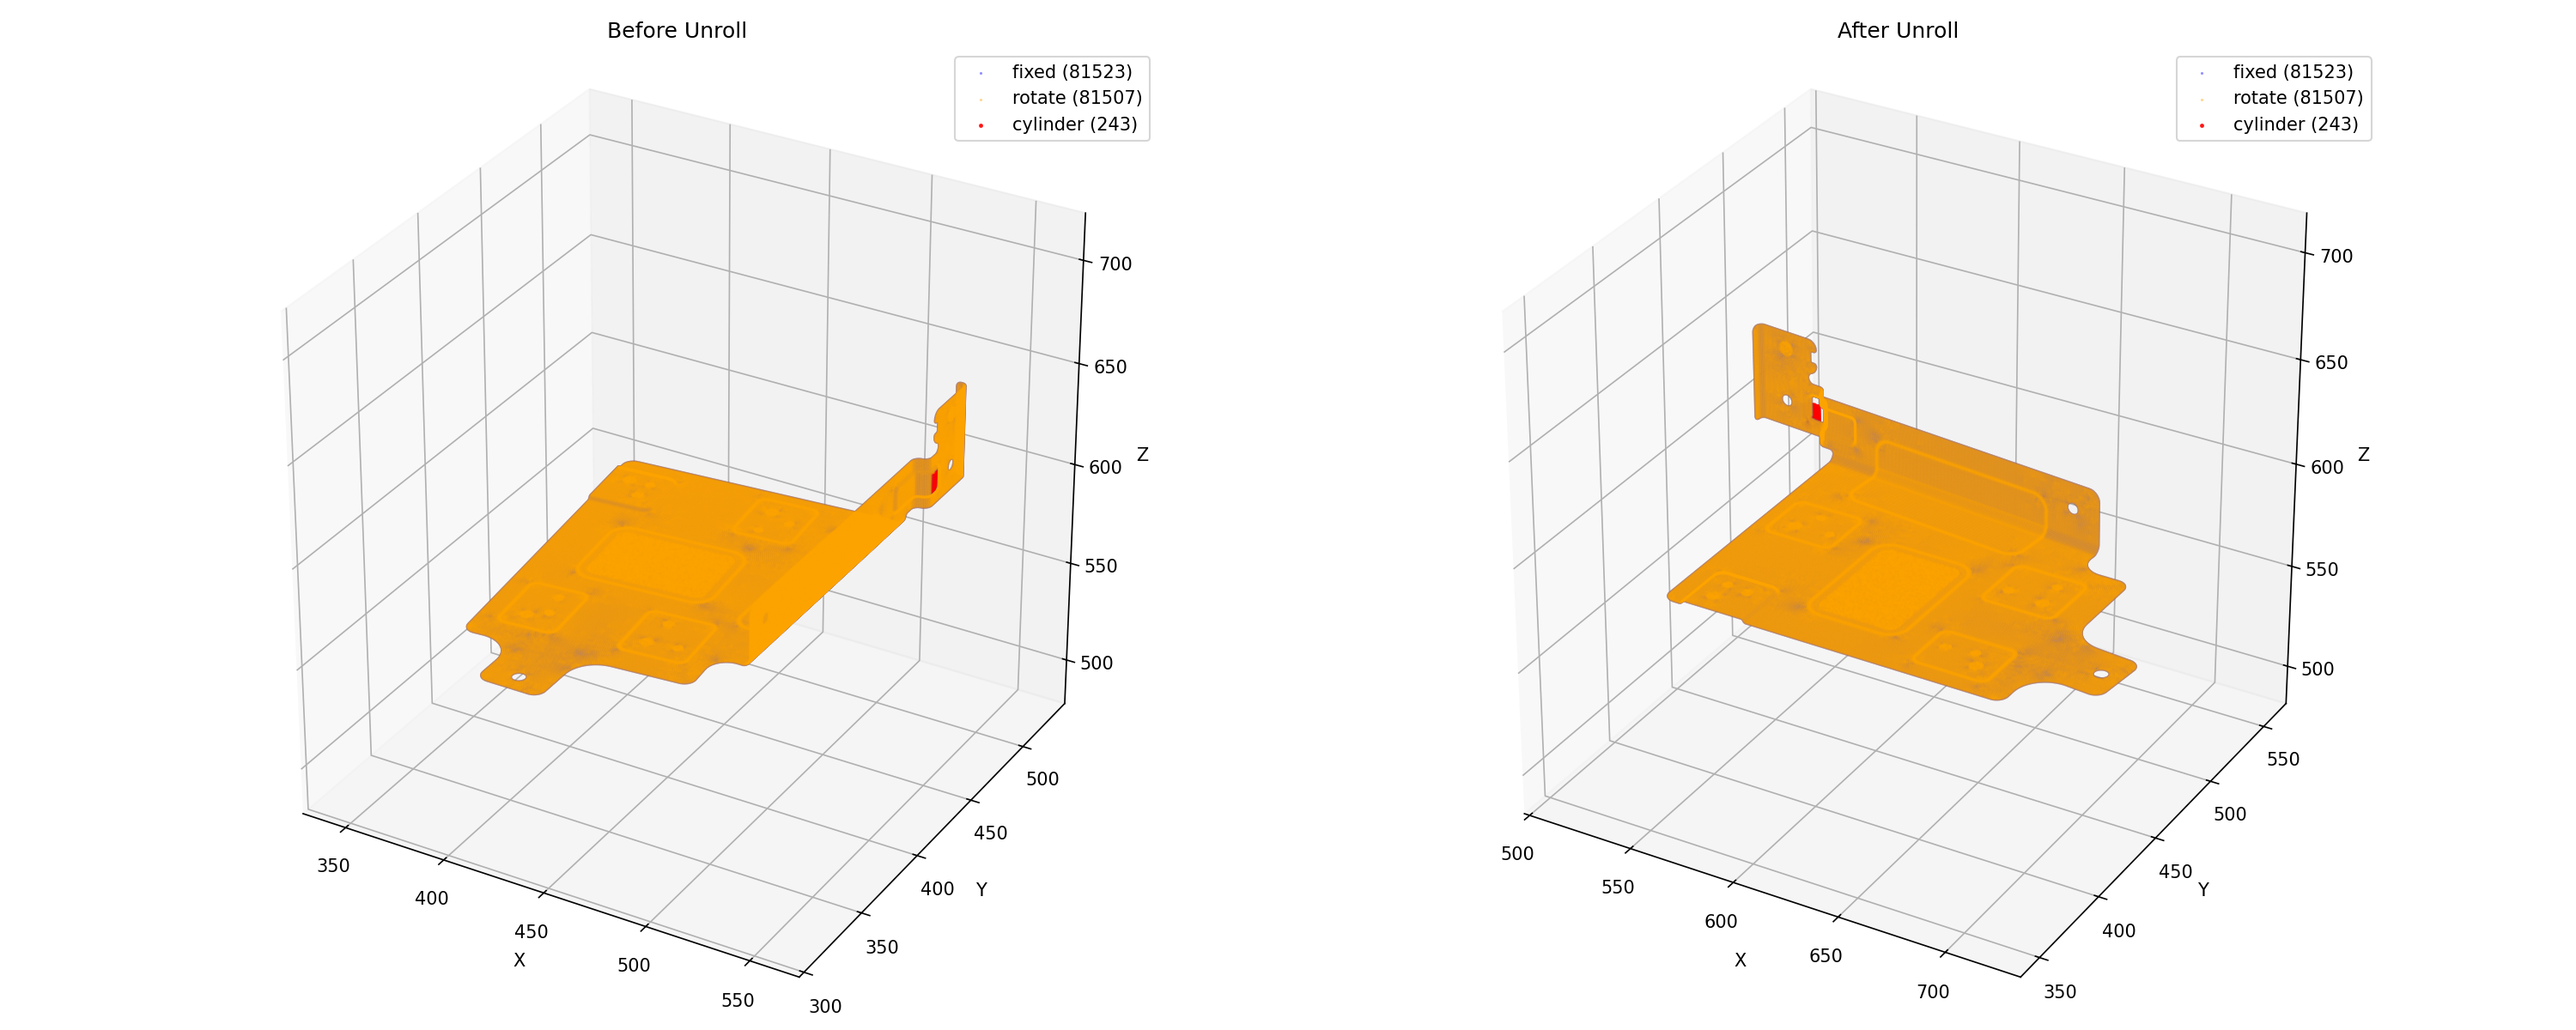
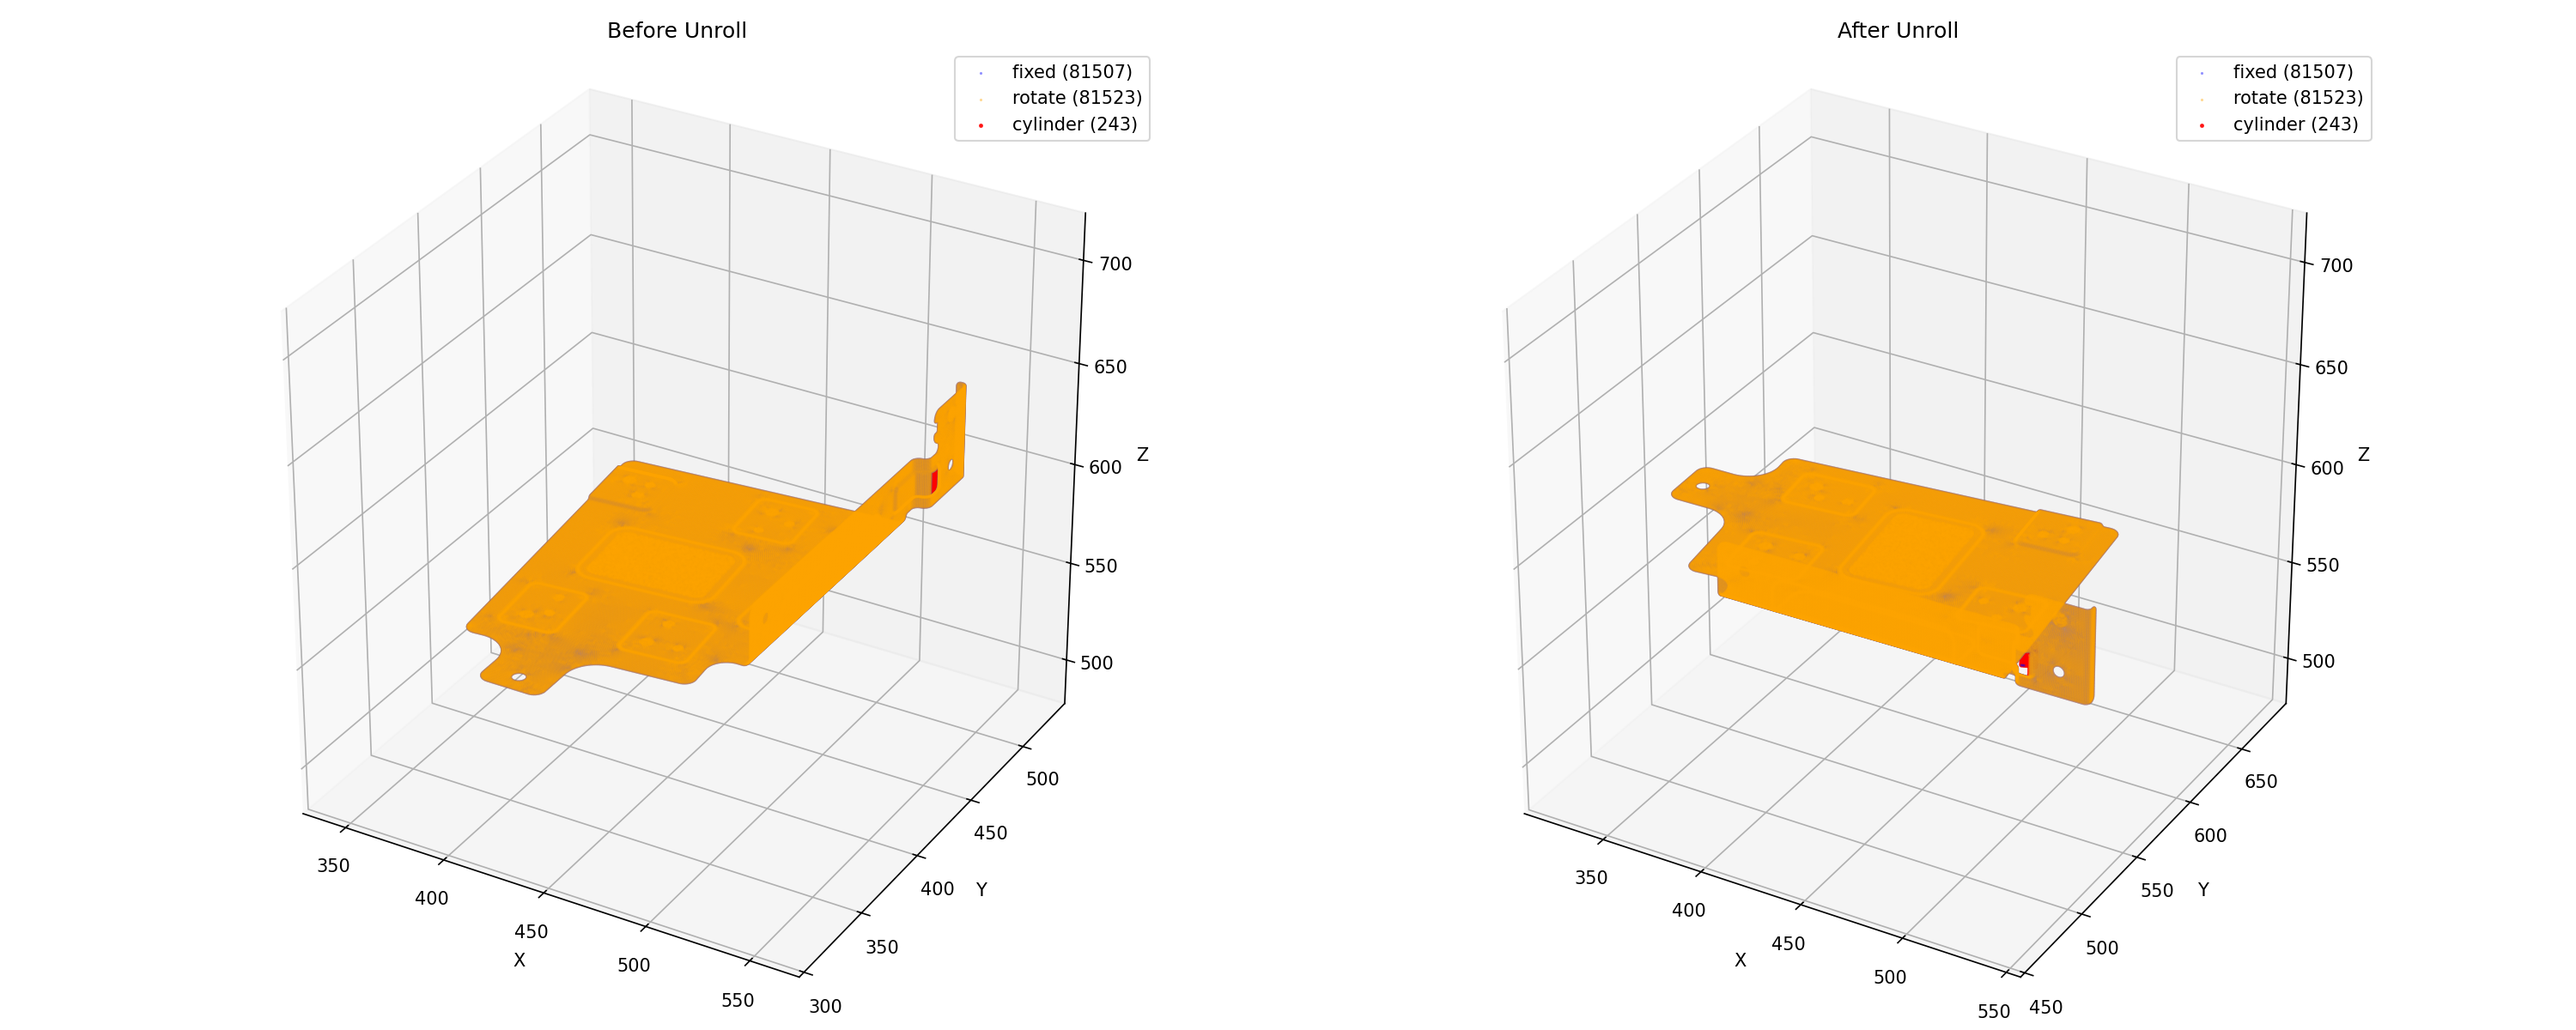
to_2d sol103_01: remesh + equal aspect + BFS color - 2026-04-22 02:02 KST

diff --git a/README.md b/README.md
@@ -4,7 +4,7 @@ This repo is used to share result images from Claude Code.
 
 **Timezone: KST (UTC+9)** — Server time is 9 hours behind KST.
 
-## MOBIS_GEN to_2d.ipynb + remesh + equal aspect (2026-04-22 01:57 KST)
+## MOBIS_GEN to_2d.ipynb — sol103_01 + remesh + equal aspect (2026-04-22 02:02 KST)
 
 ### 1. Point Cloud
 ![pointcloud](pointcloud.png)
@@ -18,7 +18,7 @@ This repo is used to share result images from Claude Code.
 ### 4. Flatten Result (Original / Flat / Bend)
 ![flatten_result](flatten_result.png)
 
-### 5. Cylinder Detected (BFS: all nodes classified)
+### 5. Cylinder Detected (BFS all-node classification)
 ![cylinder_detected](cylinder_detected.png)
 
 ### 6. Unroll Before/After
